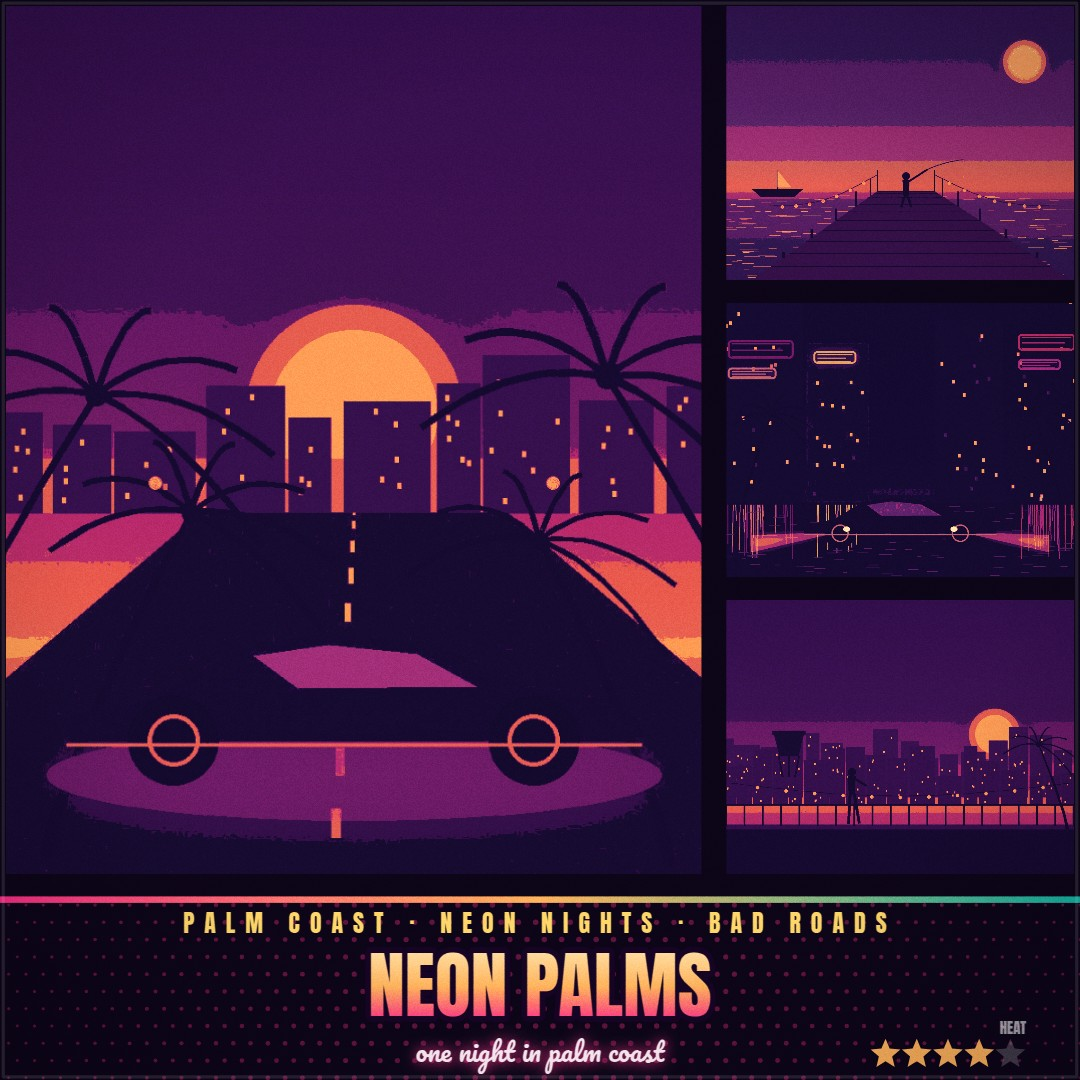
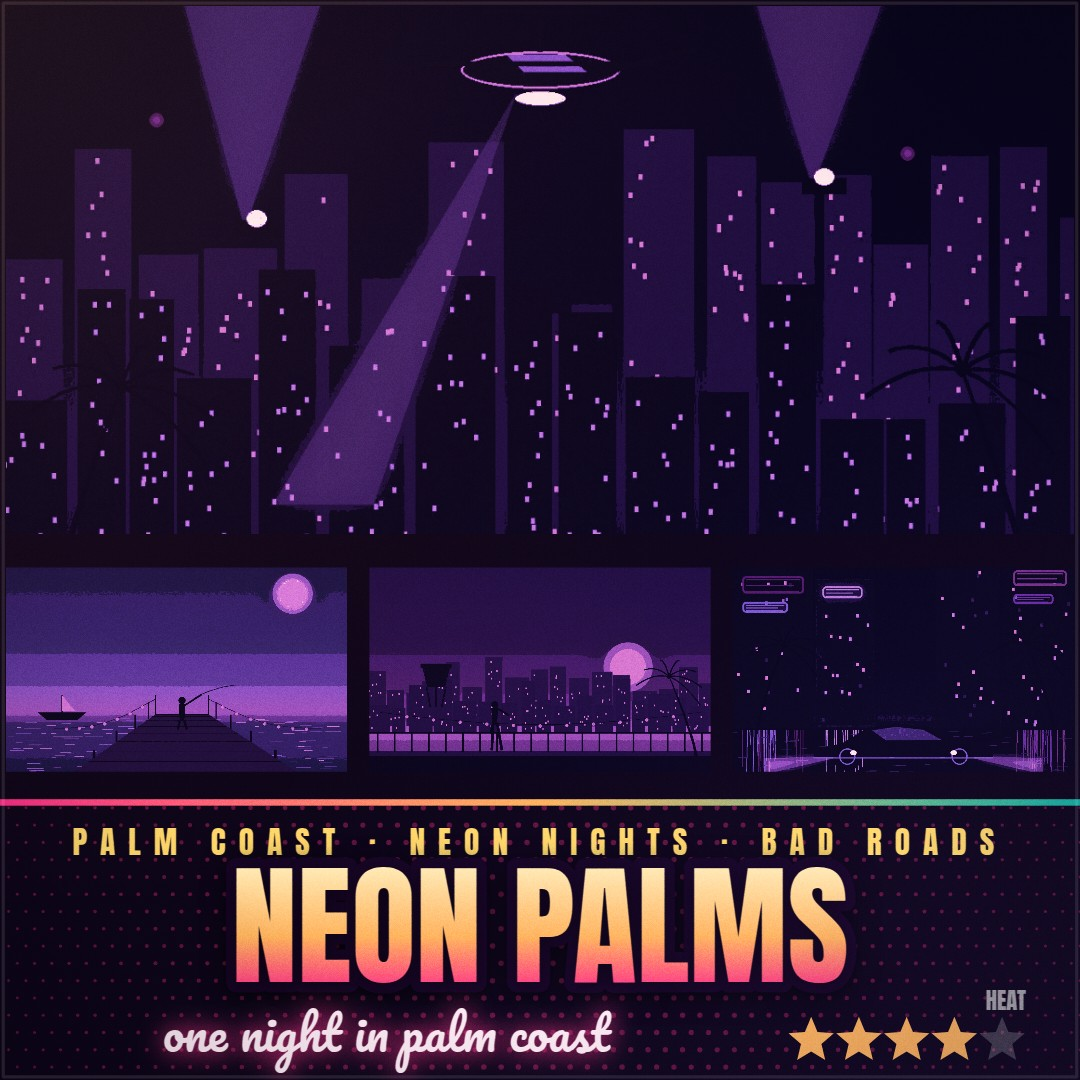
Neon Palms Cover Studio v2: bolder poster art, richer scenes, ten layouts

diff --git a/app/src/cover.js b/app/src/cover.js
@@ -1,8 +1,8 @@
-// Neon Palms Cover Studio — the cover renderer.
-// Draws the whole poster on a 2D canvas: graded photo panels in one of six
-// layouts, ink-band posterising, sunset / neon gradient-map grades, grain,
-// vignette, and display lettering with a script subtitle. Pure canvas, no
-// network, no libraries — everything is painted here.
+// Neon Palms Cover Studio — the cover renderer, v2.
+// Draws the whole poster on a 2D canvas: graded photo panels in one of
+// ten layouts, ink-band posterising, sunset / neon gradient-map grades,
+// halftone print and light-leak treatments, grain, vignette, and display
+// lettering with a script subtitle. Pure canvas, no network, no libraries.
 
 export const EXPORT_SIZES = [
   { id: 'square', label: 'Square post · 1080 × 1080', w: 1080, h: 1080 },
@@ -17,6 +17,8 @@ export const GRADES = [
   { id: 'golden-hour', name: 'Golden Hour', stops: [[0, 28, 13, 4], [0.3, 77, 36, 8], [0.55, 156, 84, 16], [0.78, 232, 155, 60], [1, 255, 243, 196]] },
   { id: 'chrome-dusk', name: 'Chrome Dusk', stops: [[0, 10, 14, 30], [0.3, 31, 42, 82], [0.52, 74, 58, 110], [0.72, 125, 107, 168], [0.88, 195, 203, 232], [1, 255, 255, 255]] },
   { id: 'rose-mirage', name: 'Rose Mirage', stops: [[0, 30, 7, 22], [0.3, 87, 18, 51], [0.55, 161, 28, 82], [0.78, 232, 93, 117], [1, 255, 217, 176]] },
+  { id: 'acid-vice', name: 'Acid Vice', stops: [[0, 8, 20, 8], [0.3, 24, 92, 28], [0.55, 120, 190, 40], [0.78, 220, 240, 90], [0.92, 255, 120, 200], [1, 255, 240, 250]] },
+  { id: 'ultraviolet', name: 'Ultraviolet', stops: [[0, 8, 4, 28], [0.3, 48, 18, 92], [0.55, 110, 40, 170], [0.78, 180, 90, 235], [0.92, 255, 120, 200], [1, 255, 230, 240]] },
 ];
 
 export const LAYOUTS = [
@@ -26,6 +28,10 @@ export const LAYOUTS = [
   { id: 'magazine-six', name: 'Magazine · 6 panels' },
   { id: 'snapshots', name: 'Tilted Snapshots' },
   { id: 'story-duo', name: 'Story Duo' },
+  { id: 'poster-one', name: 'Poster One · single scene' },
+  { id: 'diptych', name: 'Diptych · two tall panels' },
+  { id: 'triptych', name: 'Triptych · three columns' },
+  { id: 'billboard', name: 'Billboard · scene + strip' },
 ];
 
 const INK = '#0d0518';
@@ -142,6 +148,20 @@ export function layoutPanels(layoutId, W, H) {
   } else if (layoutId === 'story-duo') {
     add(0, 0, 1, 0.405); add(0, 0.595, 1, 0.405);
     title = { x: 0, y: 0.385, w: 1, h: 0.23, band: true };
+  } else if (layoutId === 'poster-one') {
+    // One big scene above a tall title band: the strongest single image.
+    add(0, 0, 1, 0.76);
+    title = { x: 0, y: 0.76, w: 1, h: 0.24, band: true };
+  } else if (layoutId === 'diptych') {
+    add(0, 0, 0.494, 0.76); add(0.506, 0, 0.494, 0.76);
+    title = { x: 0, y: 0.76, w: 1, h: 0.24, band: true };
+  } else if (layoutId === 'triptych') {
+    add(0, 0, 0.327, 0.76); add(0.3365, 0, 0.327, 0.76); add(0.673, 0, 0.327, 0.76);
+    title = { x: 0, y: 0.76, w: 1, h: 0.24, band: true };
+  } else if (layoutId === 'billboard') {
+    add(0, 0, 1, 0.50);
+    add(0, 0.52, 0.327, 0.20); add(0.3365, 0.52, 0.327, 0.20); add(0.673, 0.52, 0.327, 0.20);
+    title = { x: 0, y: 0.74, w: 1, h: 0.26, band: true };
   } else {
     // nine-grid: the classic cover — 3 × 3 panels over a title band.
     const gridH = 0.783;
@@ -208,7 +228,7 @@ function fitFont(ctx, text, family, startPx, maxWidth) {
 }
 
 // The title block: kicker, big gradient-filled display title with a heavy
-// outline, script subtitle, and the heat-meter stars.
+// outline and a soft drop shadow, script subtitle, and the heat-meter stars.
 function drawTitleBlock(ctx, W, H, state, title) {
   const tx = title.x * W;
   const ty = title.y * H;
@@ -229,17 +249,25 @@ function drawTitleBlock(ctx, W, H, state, title) {
   const cx = tx + tw / 2;
   const pad = tw * 0.05;
   const titleText = (state.title || 'NEON PALMS').toUpperCase();
-  const kickerPx = Math.max(11, th * (title.masthead ? 0.11 : 0.13));
+  let kickerPx = Math.max(11, th * (title.masthead ? 0.11 : 0.13));
   ctx.textAlign = 'center';
   ctx.textBaseline = 'alphabetic';
   if (!title.masthead) {
-    ctx.font = `${kickerPx}px Anton, sans-serif`;
-    try { ctx.letterSpacing = `${Math.round(kickerPx * 0.42)}px`; } catch (e) { /* older canvas */ }
+    // Shrink the kicker until it fits the band — a tall band on a narrow
+    // cover (portrait, square) would otherwise clip it at both edges.
+    const kickerText = (state.kicker || '').toUpperCase();
+    const maxKickW = tw - pad * 2;
+    while (kickerPx > 10) {
+      ctx.font = `${kickerPx}px Anton, sans-serif`;
+      try { ctx.letterSpacing = `${Math.round(kickerPx * 0.42)}px`; } catch (e) { /* older canvas */ }
+      if (ctx.measureText(kickerText).width <= maxKickW) break;
+      kickerPx -= 1;
+    }
     ctx.fillStyle = '#ffd76a';
-    ctx.fillText((state.kicker || '').toUpperCase(), cx, ty + th * 0.20);
+    ctx.fillText(kickerText, cx, ty + th * 0.20);
     try { ctx.letterSpacing = '0px'; } catch (e) { /* ignore */ }
   }
-  const titlePx = fitFont(ctx, titleText, 'Anton, sans-serif', th * (title.masthead ? 0.52 : 0.40), tw - pad * 2);
+  const titlePx = fitFont(ctx, titleText, 'Anton, sans-serif', th * (title.masthead ? 0.56 : 0.47), tw - pad * 2);
   const grad = ctx.createLinearGradient(0, ty + th * 0.2, 0, ty + th * 0.85);
   grad.addColorStop(0, '#fff3c4'); grad.addColorStop(0.45, '#ffb35c');
   grad.addColorStop(0.75, '#ff2e88'); grad.addColorStop(1, '#7a2bff');
@@ -248,18 +276,32 @@ function drawTitleBlock(ctx, W, H, state, title) {
   ctx.strokeStyle = '#160424';
   ctx.lineWidth = Math.max(3, titlePx * 0.16);
   const titleY = ty + th * (title.masthead ? 0.62 : 0.65);
+  ctx.save();
+  ctx.shadowColor = 'rgba(0,0,0,0.55)';
+  ctx.shadowBlur = titlePx * 0.18;
+  ctx.shadowOffsetY = titlePx * 0.04;
   ctx.strokeText(titleText, cx, titleY);
   ctx.fillStyle = grad;
   ctx.fillText(titleText, cx, titleY);
+  ctx.restore();
   const sub = state.subtitle || '';
   if (sub) {
-    const subPx = Math.max(13, titlePx * 0.36);
-    ctx.font = `${subPx}px Pacifico, cursive`;
+    // Keep the script clear of the heat-meter stars: shrink it until it
+    // fits the space left of the stars, and centre it in that space.
+    const starW = title.band && !title.masthead ? th * 0.085 * 10 + pad : 0;
+    const subCx = cx - (starW ? (starW + th * 0.05) / 2 : 0);
+    const maxSubW = tw - pad * 2 - starW - (starW ? th * 0.05 : 0);
+    let subPx = Math.max(13, titlePx * 0.36);
+    while (subPx > 12) {
+      ctx.font = `${subPx}px Pacifico, cursive`;
+      if (ctx.measureText(sub).width <= maxSubW) break;
+      subPx -= 1;
+    }
     ctx.save();
     ctx.shadowColor = '#ff2e88';
     ctx.shadowBlur = subPx * 0.5;
     ctx.fillStyle = '#ffeef7';
-    ctx.fillText(sub, cx, ty + th * (title.masthead ? 0.92 : 0.90));
+    ctx.fillText(sub, subCx, ty + th * (title.masthead ? 0.92 : 0.90));
     ctx.restore();
   }
   // Heat meter: five stars at the band's right-hand end.
@@ -295,6 +337,36 @@ function drawSeal(ctx, x, y, r) {
   ctx.textAlign = 'center';
   ctx.fillStyle = '#ffeef7';
   ctx.fillText('EST · 2026', x, y + r * 0.48);
+  ctx.restore();
+}
+
+// Halftone print treatment: dot rows over every photo panel.
+function applyHalftone(ctx, panels) {
+  ctx.save();
+  ctx.globalAlpha = 0.16;
+  for (const p of panels) {
+    if (p.rot) continue;
+    halftoneBand(ctx, p.x, p.y, p.w, p.h, '#000000');
+  }
+  ctx.restore();
+}
+
+// Light leak: a warm flare in one corner and a cool wash in the other.
+function applyLightLeak(ctx, W, H, amount) {
+  if (amount <= 0) return;
+  ctx.save();
+  ctx.globalCompositeOperation = 'screen';
+  const warm = ctx.createRadialGradient(0, 0, 0, 0, 0, Math.max(W, H) * 0.85);
+  warm.addColorStop(0, `rgba(255,150,60,${(amount * 0.34).toFixed(3)})`);
+  warm.addColorStop(0.55, `rgba(255,110,90,${(amount * 0.12).toFixed(3)})`);
+  warm.addColorStop(1, 'rgba(255,110,90,0)');
+  ctx.fillStyle = warm;
+  ctx.fillRect(0, 0, W, H);
+  const cool = ctx.createRadialGradient(W, H, 0, W, H, Math.max(W, H) * 0.8);
+  cool.addColorStop(0, `rgba(120,80,255,${(amount * 0.22).toFixed(3)})`);
+  cool.addColorStop(1, 'rgba(120,80,255,0)');
+  ctx.fillStyle = cool;
+  ctx.fillRect(0, 0, W, H);
   ctx.restore();
 }
 
@@ -352,9 +424,11 @@ export function renderCover(ctx, W, H, state, photos) {
     }
     ctx.restore();
   });
+  if (state.halftone) applyHalftone(ctx, panels);
   drawTitleBlock(ctx, W, H, state, title);
   if (state.layout === 'full-bleed') drawSeal(ctx, W * 0.90, H * 0.115, W * 0.052);
   if (state.layout === 'magazine-six') drawSeal(ctx, W * 0.935, H * 0.078, W * 0.036);
+  applyLightLeak(ctx, W, H, state.leak || 0);
   // Finish: grain, vignette, and a hairline frame.
   if (state.grain > 0) {
     ctx.save();

diff --git a/app/src/main.js b/app/src/main.js
@@ -1,4 +1,4 @@
-// Neon Palms Cover Studio — the editor.
+// Neon Palms Cover Studio — the editor, v2.
 // Wires the page to the cover renderer: photo tray, layout and grade
 // pickers, caption fields, effect sliders, per-panel drag / zoom, an
 // undo / redo history, the one-click auto-compose, and PNG export in the
@@ -8,7 +8,10 @@ import { EXPORT_SIZES, GRADES, LAYOUTS, exportCoverPNG, layoutPanels, renderCove
 import { PhotoStore } from './photos.js';
 import { applyShotToState, parseShotQuery } from './shots.js';
 
-const CURATED_DEAL = ['boulevard', 'neon-street', 'pier', 'rooftop', 'neon-street', 'boulevard', 'rooftop', 'pier', 'boulevard'];
+// Ten distinct scenes, dealt in order so a nine-panel cover never repeats
+// a scene: every panel shows a different vignette of the coast.
+const CURATED_DEAL = ['boulevard', 'pier', 'rooftop', 'neon-street', 'marina',
+  'downtown', 'beach', 'highway', 'boardwalk', 'motel'];
 
 const store = new PhotoStore();
 const canvas = document.getElementById('preview');
@@ -25,6 +28,8 @@ const state = {
   grain: 0.55,
   vignette: 0.5,
   strength: 0.85,
+  halftone: 0,
+  leak: 0.35,
   size: 'square',
   panels: [],
 };
@@ -76,7 +81,7 @@ function undo() {
 }
 
 function redo() {
-  if (!redoStack.length) return;
+  if (!undoStack.length) return;
   undoStack.push(snapshot());
   restore(redoStack.pop());
   syncHistoryButtons();
@@ -226,6 +231,13 @@ function bindInputs() {
   bindRange('grainRange', 'grain', 0.01);
   bindRange('vignetteRange', 'vignette', 0.01);
   bindRange('strengthRange', 'strength', 0.01);
+  bindRange('leakRange', 'leak', 0.01);
+  const halftoneCheck = document.getElementById('halftoneCheck');
+  halftoneCheck.addEventListener('change', () => {
+    beginChange();
+    state.halftone = halftoneCheck.checked ? 1 : 0;
+    render();
+  });
   document.getElementById('fileInput').addEventListener('change', async (ev) => {
     const files = [...ev.target.files];
     if (!files.length) return;
@@ -246,7 +258,6 @@ function bindInputs() {
     render();
   });
   document.getElementById('resetPanelBtn').addEventListener('click', () => {
-    beginChange();
     const p = state.panels[selectedPanel];
     p.x = 0; p.y = 0; p.zoom = 1;
     render();
@@ -270,6 +281,8 @@ function syncUIFromState() {
   document.getElementById('grainRange').value = Math.round(state.grain * 100);
   document.getElementById('vignetteRange').value = Math.round(state.vignette * 100);
   document.getElementById('strengthRange').value = Math.round(state.strength * 100);
+  document.getElementById('leakRange').value = Math.round(state.leak * 100);
+  document.getElementById('halftoneCheck').checked = state.halftone === 1;
   document.getElementById('sizeSelect').value = state.size;
   for (const b of document.querySelectorAll('#layoutList .pick')) {
     b.classList.toggle('active', b.dataset.layout === state.layout);
@@ -279,20 +292,22 @@ function syncUIFromState() {
   }
 }
 
-// One click from photos to a finished cover: deal the photos across the
-// panels and set the poster effects to their sweet spot.
+// One click from photos to a finished cover: deal the ten scenes across
+// the panels in order — no scene repeats — and set the poster effects to
+// their sweet spot.
 function autoCompose() {
   beginChange();
   const ids = store.ids();
   state.panels = state.panels.map((p, i) => ({
-    photo: ids.length ? ids[(i * 2 + 1) % ids.length] : p.photo,
+    photo: ids.length ? ids[i % ids.length] : p.photo,
     x: 0, y: 0, zoom: 1,
   }));
-  if (state.panels.length && ids.length) state.panels[0].photo = ids[0];
   state.ink = 5;
   state.grain = 0.55;
   state.vignette = 0.5;
   state.strength = 0.85;
+  state.halftone = 0;
+  state.leak = 0.35;
   syncUIFromState();
   render();
   setStatus('Composed. Nudge any panel, tweak the caption, then export your PNG.');

diff --git a/app/src/photos.js b/app/src/photos.js
@@ -1,13 +1,19 @@
-// Neon Palms Cover Studio — the photo store.
-// Holds every photo the cover can use: the four painted sample scenes that
+// Neon Palms Cover Studio — the photo store, v2.
+// Holds every photo the cover can use: the ten painted sample scenes that
 // ship with the app, plus any photo the person picks from their own
 // machine. Files are read locally with object URLs and never uploaded.
 
 export const SAMPLE_PHOTOS = [
   { id: 'boulevard', name: 'Boulevard at dusk', src: 'samples/boulevard.jpg' },
   { id: 'pier', name: 'The old pier', src: 'samples/pier.jpg' },
-  { id: 'neon-street', name: 'Neon street, wet', src: 'samples/neon-street.jpg' },
   { id: 'rooftop', name: 'Rooftop at sundown', src: 'samples/rooftop.jpg' },
+  { id: 'neon-street', name: 'Neon street, wet', src: 'samples/neon-street.jpg' },
+  { id: 'marina', name: 'Marina sunrise', src: 'samples/marina.jpg' },
+  { id: 'downtown', name: 'Downtown night', src: 'samples/downtown.jpg' },
+  { id: 'beach', name: 'Beach morning', src: 'samples/beach.jpg' },
+  { id: 'highway', name: 'Highway at dusk', src: 'samples/highway.jpg' },
+  { id: 'boardwalk', name: 'Boardwalk evening', src: 'samples/boardwalk.jpg' },
+  { id: 'motel', name: 'Motel neon', src: 'samples/motel.jpg' },
 ];
 
 function loadImage(src) {

diff --git a/app/src/shots.js b/app/src/shots.js
@@ -9,7 +9,7 @@ export function parseShotQuery(search) {
   const mode = q.get('shot');
   if (!mode) return null;
   const shot = { mode };
-  for (const key of ['photo', 'layout', 'grade', 'title', 'subtitle', 'size']) {
+  for (const key of ['photo', 'layout', 'grade', 'title', 'subtitle', 'size', 'halftone', 'leak', 'hero']) {
     if (q.has(key)) shot[key] = q.get(key);
   }
   return shot;
@@ -31,6 +31,14 @@ export function applyShotToState(state, shot, sampleIds) {
     state.panels = state.panels.map((p, i) => ({ ...p, photo: sampleIds[i % sampleIds.length] }));
   } else if (shot.photo && sampleIds.includes(shot.photo)) {
     state.panels = state.panels.map((p) => ({ ...p, photo: shot.photo }));
+  }
+  if (shot.hero && sampleIds.includes(shot.hero)) {
+    state.panels = state.panels.map((p, i) => (i === 0 ? { ...p, photo: shot.hero } : p));
+  }
+  if (shot.halftone === '1') state.halftone = 1;
+  if (shot.leak !== undefined && shot.leak !== '') {
+    const v = Number(shot.leak);
+    if (Number.isFinite(v)) state.leak = Math.max(0, Math.min(1, v));
   }
   return state;
 }

diff --git a/app/style.css b/app/style.css
@@ -156,6 +156,8 @@ select, input[type="text"] {
 
 .slider { display: flex; align-items: center; justify-content: space-between; gap: 10px; font-size: 12.5px; color: var(--dim); margin-top: 9px; }
 .slider input[type="range"] { flex: 1; accent-color: var(--pink); }
+.check { display: flex; align-items: center; gap: 8px; font-size: 12.5px; color: var(--dim); margin-top: 10px; cursor: pointer; }
+.check input[type="checkbox"] { accent-color: var(--pink); width: 16px; height: 16px; }
 
 .row { display: flex; gap: 8px; flex-wrap: wrap; margin-top: 8px; }
 .row button { font-size: 12.5px; }

diff --git a/app/index.html b/app/index.html
@@ -60,6 +60,8 @@
       <h2>Finish</h2>
       <label class="slider">Film grain <input id="grainRange" type="range" min="0" max="100" value="55"></label>
       <label class="slider">Vignette <input id="vignetteRange" type="range" min="0" max="100" value="50"></label>
+      <label class="slider">Light leak <input id="leakRange" type="range" min="0" max="100" value="35"></label>
+      <label class="check"><input id="halftoneCheck" type="checkbox"> Halftone print</label>
     </section>
 
     <section>

diff --git a/README.md b/README.md
@@ -5,11 +5,11 @@
 # Neon Palms Cover Studio
 
 An offline web app that turns your photos and a caption into multi-panel
-cover art in the neon-sunset poster style — the nine-panel cover grid,
-bold display lettering with a script subtitle, and a Vice-City-inspired
-colour grade — then exports a share-ready PNG. Everything is original:
-the art, the lettering and the sample scenes are made for this app, and
-no photo ever leaves your machine.
+cover art in the neon-sunset poster style — ten poster layouts, seven
+colour grades, bold display lettering with a script subtitle, and a
+Vice-City-inspired colour grade — then exports a share-ready PNG.
+Everything is original: the art, the lettering and the sample scenes
+are made for this app, and no photo ever leaves your machine.
 
 ## Run it
 
@@ -23,11 +23,14 @@ any static file server.
 
 ## What it does
 
-- **Six layouts** — Cover Grid (nine panels over a halftone title band),
-  Hero & Three, Full Bleed, Magazine Six, Tilted Snapshots, Story Duo.
-- **Five colour grades** — Vice Sunset, Neon Night, Golden Hour, Chrome
-  Dusk and Rose Mirage, each a gradient map with an adjustable strength
-  and an ink-band posterise slider for the printed-poster look.
+- **Ten layouts** — Cover Grid (nine panels over a halftone title band),
+  Hero & Three, Full Bleed, Magazine Six, Tilted Snapshots, Story Duo,
+  Poster One (one big scene above a tall title band), Diptych, Triptych
+  and Billboard (a wide scene over a three-panel strip).
+- **Seven colour grades** — Vice Sunset, Neon Night, Golden Hour, Chrome
+  Dusk, Rose Mirage, Acid Vice and Ultraviolet, each a gradient map with
+  an adjustable strength and an ink-band posterise slider for the
+  printed-poster look.
 - **Any photo, every panel** — add your own photos (they are read
   locally, never uploaded), click a panel to select it, drag to position
   the photo inside it, scroll to zoom, double-click a photo to fill
@@ -40,13 +43,15 @@ any static file server.
   every step.
 - **Export** — one click writes a PNG at 1080 × 1080, 1080 × 1350,
   1920 × 1080 or 1080 × 1920.
-- **Finish** — seeded film grain (identical on every export) and a
-  vignette, both adjustable.
+- **Finish** — seeded film grain (identical on every export), a
+  vignette, a light leak and a halftone print treatment, all adjustable.
 
-The four sample scenes in `app/samples/` are original synthetic
-paintings made for this app. Lettering uses Anton and Pacifico, both
-under the SIL Open Font License — the fonts and their licence texts are
-in `app/fonts/`.
+The ten sample scenes in `app/samples/` are original synthetic
+paintings made for this app — boulevard, pier, neon street, rooftop,
+marina, downtown, beach, highway, boardwalk and motel — so a nine-panel
+cover shows nine different vignettes and never repeats a scene.
+Lettering uses Anton and Pacifico, both under the SIL Open Font License
+— the fonts and their licence texts are in `app/fonts/`.
 
 ## Handing it in
 
